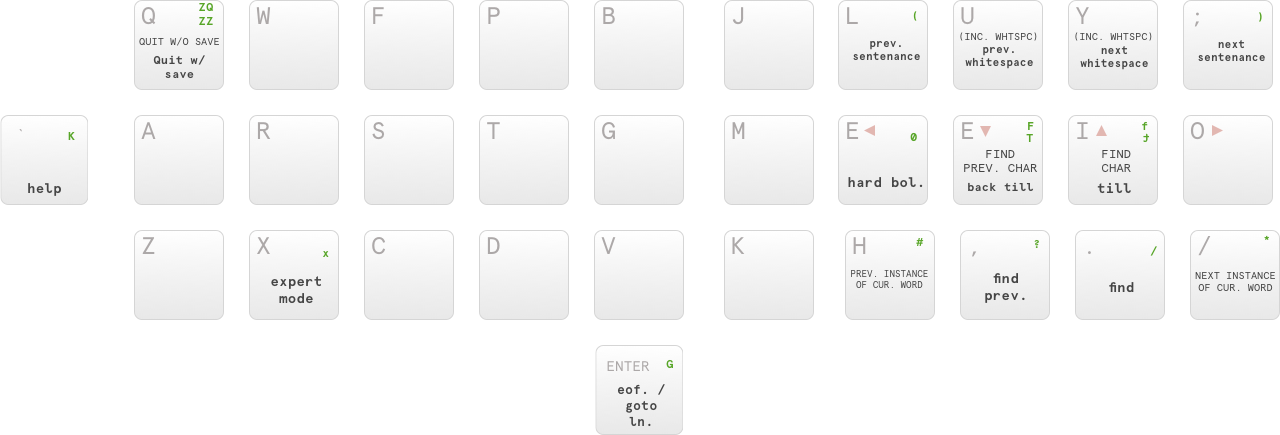
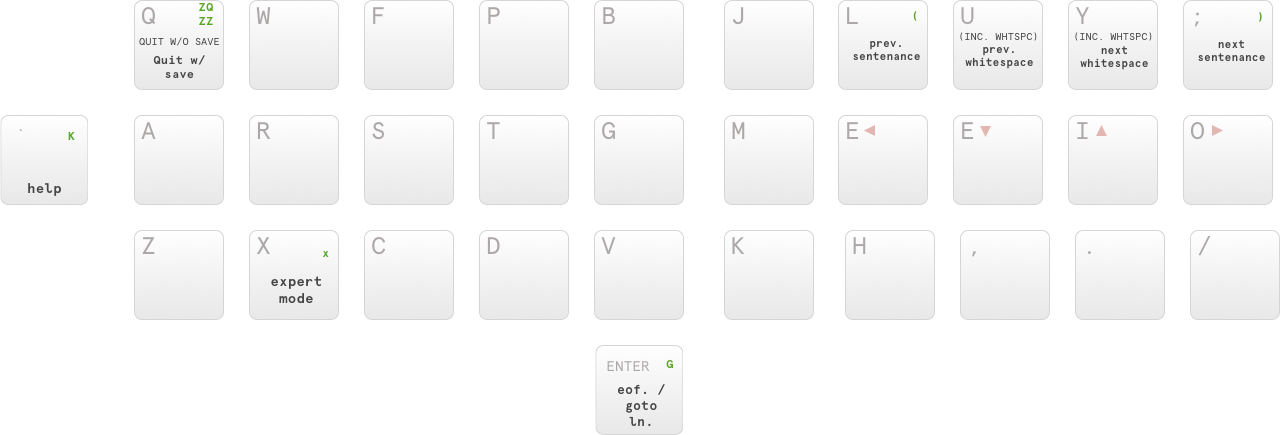
Updated readme and image refs

diff --git a/Readme.md b/Readme.md
@@ -8,6 +8,12 @@
    <img width="800" src="https://raw.githubusercontent.com/wheredoesyourmindgo/vim-byoa/master/images/commands.png" />
 </p>
 
+## Symbols
+
+<p align="center">
+   <img width="800" src="https://raw.githubusercontent.com/wheredoesyourmindgo/vim-byoa/master/images/symbols.png" />
+</p>
+
 ## Leaders
 
 <p align="center">
